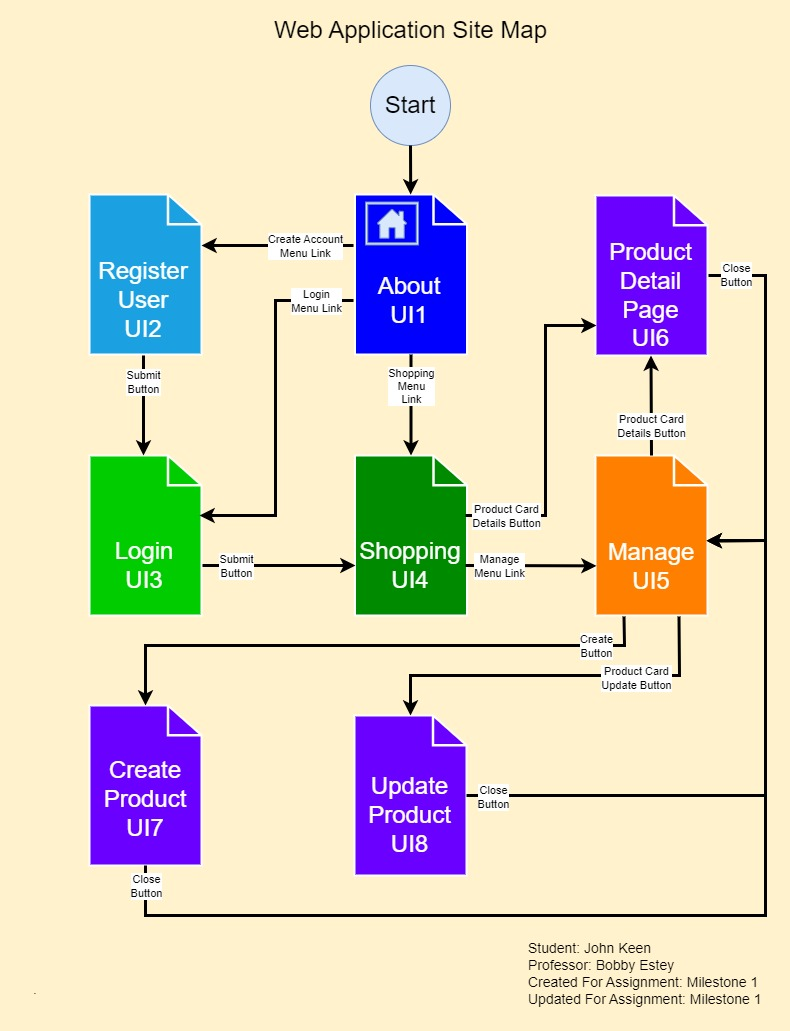
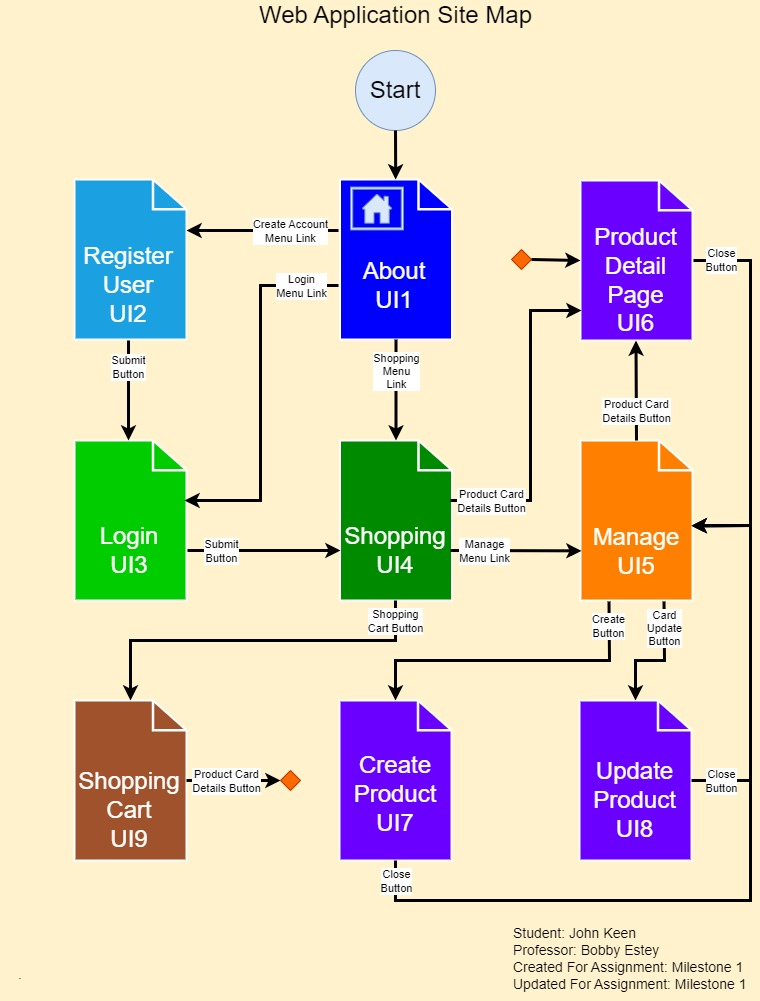
Updated UML section of README.md

Changed region(s): [[0.0908, 0.0, 0.9987, 0.991]]

diff --git a/README.md b/README.md
@@ -35,11 +35,15 @@ This is not a task that Saint Peter alone should carry and we should all try to 
 
 List of requirements in user story format:
 
-- As a customer I would like to see all of the products so that I can browse for the bible I want.
+- As a customer I would like to see all the products so that I can browse for the bible I want.
 - As a customer I would like to search for a particular product so that I can find the bible I need.
-- As a customer I would like to see the details of the product so I can better know what I am purchasing.
+- As a customer I would like to see the details of a product so that I can better know what I am purchasing.
+- As a customer I would like to add a product to a cart so that I can make a purchase.
+- As a customer I would like to register as a user so that I can log in.
+- As a customer I would like to be able to log in so that I can place an order.
+- As a sales manager I would like to be able to log in so that I can manage inventory.
 - As a sales manager I would like to be able to create a product so that I can update our inventory.
-- As a sales manager I would like to browse all of the products so that I can browse for a bible that may need information updated.
+- As a sales manager I would like to browse all the products so that I can browse for a bible that may need information updated.
 - As a sales manager I would like to search for a product by multiple criteria so that I can find the product that needs updated.
 - As a sales manager I would like to be able to update a product so that I can keep the inventory information current.
 
@@ -62,9 +66,19 @@ List of requirements in user story format:
 ![UI6-ProductDetails](./Diagrams/UI6-ProductDetails.jpg)
 ![UI7-CreateProduct](./Diagrams/UI7-CreateProduct.jpg)
 ![UI8-UpdateProduct](./Diagrams/UI8-UpdateProduct.jpg)
+![UI9-ShoppingCart](./Diagrams/UI9-ShoppingCart.jpg)
 ---
 # Initial UML Classes
+![DaoAndModelUML](./Diagrams/UML.jpg) 
 
 ---
 # Risks
+I really have to balance my expectations with my available time so that I can stay on task.
+My biggest risk is running into bugs and running out of time.  I also may run into risks like type mismatching between
+objects returned from SQL and javascript types because I do not have experience using javascript to access SQL.
+My lack of experience with typescript, React and Angular may cause me to spend a lot of time looking things up.
+Another risk I run into is that the API we are creating is stateless and I may not be able to create a user session.
+Without the ability to create a session I could not log in.  There may be a solution for the need for stateful connections
+in Angular and React.  It may take time to learn stateful connections in Angular and React.
+Learning such things may fall outside the scope of the activities and be a hindrance to the planned course of learning.
 
